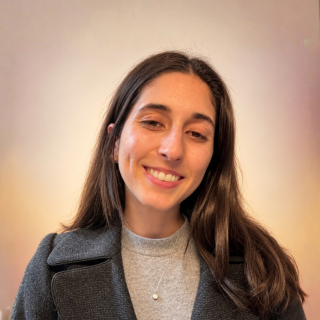
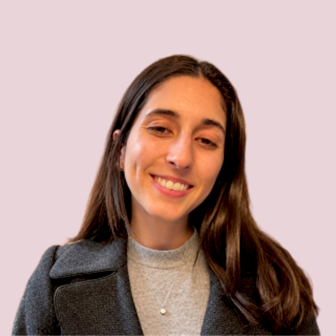
mejorado design

diff --git a/src/scripts/adviento-house3d.ts b/src/scripts/adviento-house3d.ts
@@ -82,6 +82,18 @@ function shortDate(iso?:string) {
   return m ? `${Number(m[2])} ${months[Number(m[1]) - 1]}` : '';
 }
 
+function drawRosetteStar(ctx:CanvasRenderingContext2D, cx:number, cy:number, radius:number, color:string) {
+  ctx.save();
+  ctx.beginPath();
+  for (let i = 0; i < 16; i++) {
+    const angle = -Math.PI / 2 + i * Math.PI / 8;
+    const r = i % 2 ? radius * .38 : radius;
+    const x = cx + Math.cos(angle) * r, y = cy + Math.sin(angle) * r;
+    i ? ctx.lineTo(x, y) : ctx.moveTo(x, y);
+  }
+  ctx.closePath(); ctx.fillStyle = color; ctx.fill(); ctx.restore();
+}
+
 function layoutFor(compact:boolean) {
   const cols = compact ? 4 : 6, rows = 24 / cols;
   const cellW = 1, cellH = compact ? .96 : .8, gap = compact ? .1 : .13, padX = compact ? .24 : .34;
@@ -611,7 +623,7 @@ export async function mountHouse3D(scene:HTMLElement, grid:HTMLElement, days:Day
     const insW = bodyW * (L.compact ? .66 : .44), insH = insW * .4;
     const insignia = new THREE.Mesh(geo(new THREE.PlaneGeometry(insW, insH)), mat({ transparent:true, roughness:.5, map:canvasTexture(insW * ppu, insH * ppu, (ctx, w, h) => {
       ctx.textAlign = 'center'; ctx.textBaseline = 'middle';
-      ctx.fillStyle = SPEC.color.facadeAccent; ctx.font = `600 ${h * .3}px ${FONT}`; ctx.fillText('✳', w / 2, h * .2);
+      drawRosetteStar(ctx, w / 2, h * .2, h * .15, SPEC.color.facadeAccent);
       ctx.fillStyle = SPEC.color.onFacade; ctx.font = `600 ${h * .17}px ${FONT}`; ctx.fillText('24 pequeñas sorpresas', w / 2, h * .55);
       ctx.globalAlpha = .86; ctx.font = `400 ${h * .085}px ${FONT}`; spacedText(ctx, 'DICIEMBRE · 2026', w / 2, h * .78, h * .016);
     }) }));

diff --git a/src/styles/adviento-house.css b/src/styles/adviento-house.css
@@ -21,7 +21,7 @@
 .roof-icing{position:absolute;inset:0;width:100%;height:100%;overflow:visible;fill:none;stroke:#691b32;stroke-width:18;stroke-linecap:round;stroke-linejoin:round;filter:drop-shadow(0 3px 2px rgba(50,12,28,.15));z-index:2}
 .roof-icing path:last-child{stroke-width:7}
 .roof-insignia{position:absolute;inset:31% 0 27%;display:flex;align-items:center;justify-content:center;flex-direction:column;gap:2px;color:#691b32;text-align:center;z-index:2}
-.roof-star{font-size:clamp(28px,3.4vw,39px);line-height:1;color:#c68f9f}
+.roof-star{display:block;width:clamp(28px,3.4vw,39px);height:clamp(28px,3.4vw,39px);fill:#c68f9f;flex:none}
 .roof-insignia>span:nth-child(2){font-size:clamp(11px,1.35vw,18px);font-weight:600;letter-spacing:.015em}
 .roof-year{font-size:clamp(8px,.85vw,11px);letter-spacing:.14em;opacity:.86}
 .house-chimney{position:absolute;top:8px;left:19%;width:clamp(30px,4.5vw,56px);height:clamp(53px,7vw,85px);background:linear-gradient(90deg,#521326 0 23%,#691b32 23% 85%,#7a2440 85%);box-shadow:8px 6px 0 rgba(46,15,28,.35);transform:rotate(-3deg)}
@@ -106,7 +106,7 @@
   .house-chimney{top:10px;left:19%;width:30px;height:49px}
   .roof-icing{stroke-width:23}
   .roof-insignia{inset:29% 0 25%;gap:0}
-  .roof-star{font-size:25px}.roof-insignia>span:nth-child(2){font-size:10px}.roof-year{font-size:7px}
+  .roof-star{width:25px;height:25px}.roof-insignia>span:nth-child(2){font-size:10px}.roof-year{font-size:7px}
   .house-body{padding:0 6px 8px;border-width:5px;border-top:0}
   .house-eave{height:20px;margin:0 -6px 8px;border-top-width:4px;border-bottom-width:2px;font-size:10px}
   .house-eave span:nth-child(even){display:none}

diff --git a/DESIGN.md b/DESIGN.md
@@ -18,7 +18,17 @@ Referencia de dirección: la claridad, densidad contenida y componentes funciona
 | `holly` | `#2F6B47` | Verde navideño: solo para «hecho» (reto completado) en el Adviento |
 | `holly-soft` | `#E9F1E6` | Fondo de la tarjeta de un reto completado |
 
-El blanco domina. El cherry identifica las acciones y el amarillo señala momentos de avance. **La página de inicio conserva su fondo degradado original** en rosa y amarillo como excepción de marca; el calendario usa degradados por su carácter navideño. Las demás páginas de lectura y captación usan superficies planas. Las imágenes propias de Carla y las portadas de sus guías siguen siendo las protagonistas visuales.
+El blanco domina. El cherry identifica las acciones y el amarillo señala momentos de avance. Todas las páginas, también la de inicio, usan fondo blanco y superficies planas; solo el calendario usa degradados por su carácter navideño. Las imágenes propias de Carla y las portadas de sus guías siguen siendo las protagonistas visuales.
+
+## Logo
+
+El logo de **carlaylz** es un símbolo de dos círculos que se solapan, negro `#1D1D1F` y `cherry`, con la intersección en forma de lente en `yellow`, seguido de la palabra «carlaylz» en Inter Tight de peso 500, con tracking ajustado, en `#1D1D1F`. Ese negro es propio del logo y no se usa en la interfaz, donde el texto va en `ink`.
+
+- Símbolo suelto: `public/assets/logo-mark.svg`. Favicon: `public/assets/favicon.svg`, el símbolo sobre una baldosa blanca con borde fino.
+- En la web, el logo va en la cabecera, a la izquierda, con el símbolo a unos 30px de alto y el nombre en HTML para que use la fuente de la web. Enlaza a la página de inicio. Lo pinta el componente `src/components/SiteLogo.astro`.
+- El nombre junto al símbolo es «carla lópez» en todas las páginas.
+- Sobre fondos oscuros, el círculo negro pasa a blanco.
+- No se recolorea, no se deforma y no se le añaden sombras ni contornos.
 
 ## Tipografía
 
@@ -49,7 +59,7 @@ La jerarquía nace de tamaño, peso y espacio; no de titulares negros gigantes o
 
 ### Navegación
 
-Cabecera blanca de aproximadamente 80px, nombre de marca a la izquierda y contexto o acción a la derecha. Línea inferior fina. En páginas de lectura, enlace claro para volver.
+Cabecera blanca de aproximadamente 80px, logo a la izquierda y contexto o acción a la derecha. Línea inferior fina. En páginas de lectura, enlace claro para volver.
 
 ### Botón principal
 
